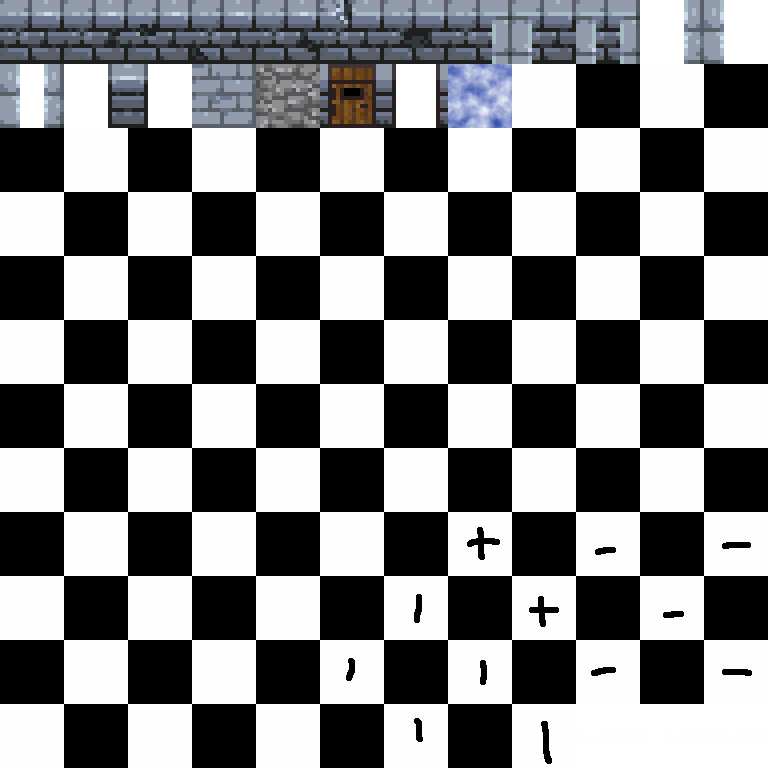
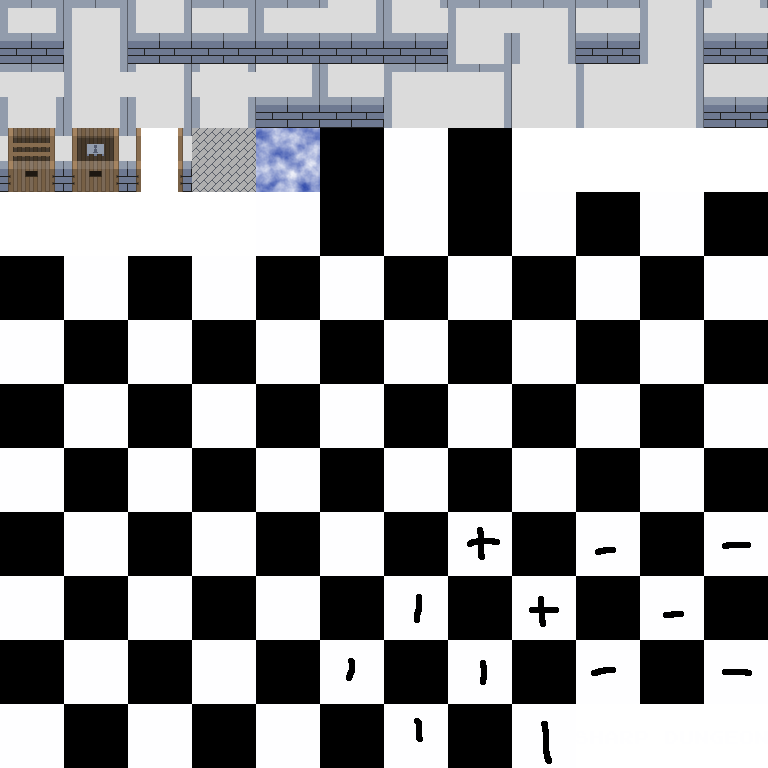
Fixed tiles

Changed region(s): [[0.0, 0.0, 1.0, 0.3438]]

diff --git a/SharpDungeon/Game/Tiles/StoneWallTile.cs b/SharpDungeon/Game/Tiles/StoneWallTile.cs
@@ -18,26 +18,104 @@ namespace SharpDungeon.Game.Tiles {
         public override void tick(Handler handler, int x, int y) {
             base.tick(handler, x, y);
 
-            //If right and down tiles are Stone walls
-            if (handler.world.getTile(x+1, y) is StoneWallTile && handler.world.getTile(x, y+1) is StoneWallTile)
-                currentTex = textures[8];
-            //If left and down tiles are Stone walls
-            else if (handler.world.getTile(x - 1, y) is StoneWallTile && handler.world.getTile(x, y+1) is StoneWallTile)
-                currentTex = textures[7];
-            //If up and right tiles are Stone walls
-            else if (handler.world.getTile(x, y + 1) is StoneWallTile && handler.world.getTile(x + 1, y) is StoneWallTile)
-                currentTex = textures[rndNum];
-            //If left and up tiles are Stone walls
-            else if (handler.world.getTile(x - 1, y) is StoneWallTile && handler.world.getTile(x, y - 1) is StoneWallTile)
-                currentTex = textures[rndNum];
-            //If left and right
-            else if (handler.world.getTile(x - 1, y) is StoneWallTile && handler.world.getTile(x + 1, y) is StoneWallTile)
-                currentTex = textures[rndNum];
-            //If down and !right OR up
-            else if (handler.world.getTile(x, y+1) is StoneWallTile && ! (handler.world.getTile(x+1, y) is StoneWallTile) || handler.world.getTile(x, y - 1) is StoneWallTile && !(handler.world.getTile(x + 1, y) is StoneWallTile))
+            ////Filler corners
+            //if (handler.world.getTile(x - 1, y - 1) is StoneWallTile &&
+            //    handler.world.getTile(x - 1, y) is StoneWallTile &&
+            //    handler.world.getTile(x, y - 1) is StoneWallTile)
+            //    currentTex = textures[16];
+            //else if (handler.world.getTile(x + 1, y - 1) is StoneWallTile &&
+            //         handler.world.getTile(x + 1, y) is StoneWallTile &&
+            //         handler.world.getTile(x, y - 1) is StoneWallTile)
+            //    currentTex = textures[17];
+            //else if (handler.world.getTile(x + 1, y + 1) is StoneWallTile &&
+            //         handler.world.getTile(x + 1, y) is StoneWallTile &&
+            //         handler.world.getTile(x, y + 1) is StoneWallTile)
+            //    currentTex = textures[18];
+            //else if (handler.world.getTile(x - 1, y + 1) is StoneWallTile &&
+            //         handler.world.getTile(x - 1, y) is StoneWallTile &&
+            //         handler.world.getTile(x, y + 1) is StoneWallTile)
+            //    currentTex = textures[19];
+            ////Filler
+            //else if (handler.world.getTile(x - 1, y - 1) is StoneWallTile &&
+            //         handler.world.getTile(x - 1, y) is StoneWallTile &&
+            //         handler.world.getTile(x, y - 1) is StoneWallTile)
+            //    currentTex = textures[11];
+
+            //Cross +
+            if (handler.world.getTile(x - 1, y) is StoneWallTile &&
+                    handler.world.getTile(x, y - 1) is StoneWallTile &&
+                    handler.world.getTile(x + 1, y) is StoneWallTile &&
+                    handler.world.getTile(x, y + 1) is StoneWallTile)
+                currentTex = textures[15];
+
+            //If T left up right
+            else if (handler.world.getTile(x - 1, y) is StoneWallTile &&
+                handler.world.getTile(x, y - 1) is StoneWallTile &&
+                handler.world.getTile(x + 1, y) is StoneWallTile)
                 currentTex = textures[11];
+            //If T left down right
+            else if (handler.world.getTile(x - 1, y) is StoneWallTile &&
+                     handler.world.getTile(x, y + 1) is StoneWallTile &&
+                     handler.world.getTile(x + 1, y) is StoneWallTile)
+                currentTex = textures[12];
+            //If T left up down
+            else if (handler.world.getTile(x - 1, y) is StoneWallTile &&
+                     handler.world.getTile(x, y - 1) is StoneWallTile &&
+                     handler.world.getTile(x, y + 1) is StoneWallTile)
+                currentTex = textures[14];
+            //If T right up down
+            else if (handler.world.getTile(x + 1, y) is StoneWallTile &&
+                     handler.world.getTile(x, y - 1) is StoneWallTile &&
+                     handler.world.getTile(x, y + 1) is StoneWallTile)
+                currentTex = textures[13];
+
+            //If right and down
+            else if (handler.world.getTile(x + 1, y) is StoneWallTile && handler.world.getTile(x, y + 1) is StoneWallTile)
+                currentTex = textures[7];
+            //If right and up
+            else if (handler.world.getTile(x + 1, y) is StoneWallTile && handler.world.getTile(x, y - 1) is StoneWallTile)
+                currentTex = textures[6];
+            //If left and up
+            else if (handler.world.getTile(x - 1, y) is StoneWallTile && handler.world.getTile(x, y - 1) is StoneWallTile)
+                currentTex = textures[5];
+            //If left and down
+            else if (handler.world.getTile(x - 1, y) is StoneWallTile && handler.world.getTile(x, y + 1) is StoneWallTile)
+                currentTex = textures[8];
+            // If up only and !opposite
+            else if (handler.world.getTile(x, y - 1) is StoneWallTile && !(handler.world.getTile(x, y + 1) is StoneWallTile))
+                currentTex = textures[2];
+            // If left only and !opposite
+            else if (handler.world.getTile(x - 1, y) is StoneWallTile && !(handler.world.getTile(x + 1, y) is StoneWallTile))
+                currentTex = textures[3];
+            // If right only and !opposite
+            else if (handler.world.getTile(x + 1, y) is StoneWallTile && !(handler.world.getTile(x - 1, y) is StoneWallTile))
+                currentTex = textures[4];
+            // If down only and !opposite
+            else if (handler.world.getTile(x, y + 1) is StoneWallTile && !(handler.world.getTile(x, y - 1) is StoneWallTile))
+                currentTex = textures[1];
+            //If left x 2
+            else if ((handler.world.getTile(x - 2, y) is StoneWallTile && handler.world.getTile(x - 1, y) is StoneWallTile) ||
+                      (handler.world.getTile(x - 1, y) is StoneWallTile && handler.world.getTile(x + 1, y) is StoneWallTile))
+                currentTex = textures[9];
+            //If right x 2
+            else if ((handler.world.getTile(x + 2, y) is StoneWallTile && handler.world.getTile(x + 1, y) is StoneWallTile) ||
+                      (handler.world.getTile(x + 1, y) is StoneWallTile && handler.world.getTile(x - 1, y) is StoneWallTile))
+                currentTex = textures[9];
+            //If up x 2
+            else if ((handler.world.getTile(x, y - 2) is StoneWallTile && handler.world.getTile(x, y - 1) is StoneWallTile) ||
+                      (handler.world.getTile(x, y - 1) is StoneWallTile && handler.world.getTile(x, y + 1) is StoneWallTile))
+                currentTex = textures[10];
+            //If down x 2
+            else if ((handler.world.getTile(x, y + 2) is StoneWallTile && handler.world.getTile(x, y + 1) is StoneWallTile) ||
+                      (handler.world.getTile(x, y + 1) is StoneWallTile && handler.world.getTile(x, y - 1) is StoneWallTile))
+                currentTex = textures[10];
             else
                 currentTex = textures[0];
+
+            //Filler
+
+            //Cross
+
         }
 
 

diff --git a/SharpDungeon/Game/Graphics/Assets.cs b/SharpDungeon/Game/Graphics/Assets.cs
@@ -44,10 +44,10 @@ namespace SharpDungeon.Game.Graphics {
                 f.AddFontFile("../../Assets/emulogic.ttf");
                 themeFont = new Font(f.Families[0], 10);
 
-                air = tileSheet.crop(width * 6, height, width, height);
-                stone = tileSheet.crop(width * 4, height, width, height);
+                air = tileSheet.crop(width * 4, height * 2, width, height);
+                stone = tileSheet.crop(width * 3, height * 2, width, height);
 
-                stoneWall = new Bitmap[16];
+                stoneWall = new Bitmap[24];
 
                 stoneWall[0] = tileSheet.crop(0, 0, width, height);
                 stoneWall[1] = tileSheet.crop(width, 0, width, height);
@@ -56,16 +56,26 @@ namespace SharpDungeon.Game.Graphics {
                 stoneWall[4] = tileSheet.crop(width * 4, 0, width, height);
                 stoneWall[5] = tileSheet.crop(width * 5, 0, width, height);
                 stoneWall[6] = tileSheet.crop(width * 6, 0, width, height);
-
                 stoneWall[7] = tileSheet.crop(width * 7, 0, width, height);
                 stoneWall[8] = tileSheet.crop(width * 8, 0, width, height);
                 stoneWall[9] = tileSheet.crop(width * 9, 0, width, height);
                 stoneWall[10] = tileSheet.crop(width * 10, 0, width, height);
                 stoneWall[11] = tileSheet.crop(width * 11, 0, width, height);
-                stoneWall[12] = tileSheet.crop(width, height, width, height);
-                stoneWall[13] = tileSheet.crop(width * 2, height, width, height);
-                stoneWall[14] = tileSheet.crop(width * 3, height, width, height);
-                stoneWall[15] = tileSheet.crop(width * 4, height, width, height);
+
+                stoneWall[12] = tileSheet.crop(0, height, width, height);
+                stoneWall[13] = tileSheet.crop(width, height, width, height);
+                stoneWall[14] = tileSheet.crop(width * 2, height, width, height);
+                stoneWall[15] = tileSheet.crop(width * 3, height, width, height);
+
+                stoneWall[16] = tileSheet.crop(width * 4, height, width, height);
+                stoneWall[17] = tileSheet.crop(width * 5, height, width, height);
+                stoneWall[18] = tileSheet.crop(width * 6, height, width, height);
+                stoneWall[19] = tileSheet.crop(width * 7, height, width, height);
+                stoneWall[20] = tileSheet.crop(width * 8, height, width, height);
+                stoneWall[21] = tileSheet.crop(width * 9, height, width, height);
+                stoneWall[22] = tileSheet.crop(width * 10, height, width, height);
+                stoneWall[23] = tileSheet.crop(width * 11, height, width, height);
+
                 logo = tileSheet.crop(width*9, height*11, width*3, height);
 
                 player = new Bitmap[3];

diff --git a/SharpDungeon/Game/World/World.cs b/SharpDungeon/Game/World/World.cs
@@ -21,8 +21,8 @@ namespace SharpDungeon.Game.World {
         public World(Handler handler) {
             this.handler = handler;
 
-            width = 50;
-            height = 50;
+            width = 30;
+            height = 30;
             spawnX = 100;
             spawnY = 100;
 
@@ -42,6 +42,8 @@ namespace SharpDungeon.Game.World {
                         tiles[x, y] = Tile.stone.getId();
                 }
             }
+
+
 
             entityManager = new EntityManager(handler, new Player(handler, spawnX, spawnY));
             
